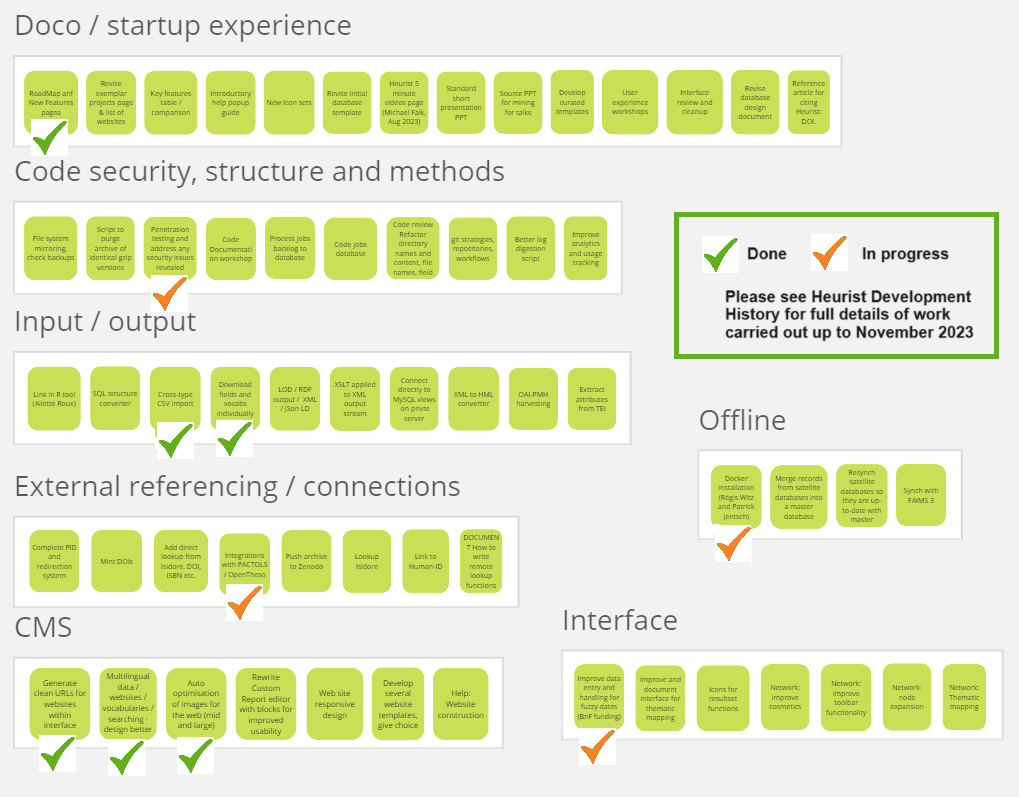
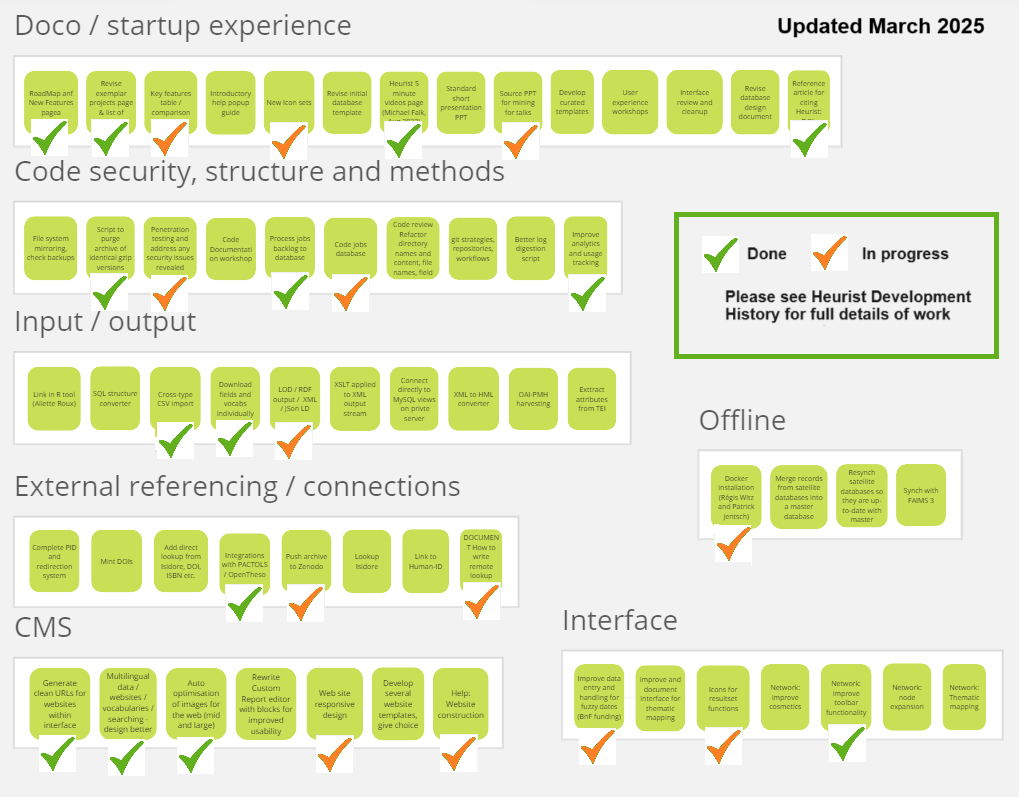
Update roadmap, development history and other documentation

diff --git a/Heurist_Development_History.html b/Heurist_Development_History.html
@@ -48,8 +48,35 @@
         </ul>  
         
       -->
+
+        <p><strong>March 2025</strong></p>
+        <ul>
+        <li style="list-style-type:disc">Development of widget templates to support third party extension of Heurist</li>
+        <li style="list-style-type:disc">Improve browse templates dialogue</li>
+        <li style="list-style-type:disc">Generate list of intended emails in bulk mailer and display progress</li>
+        <li style="list-style-type:disc">Dropdown lists for terms with bolded top level and collapsed branches</li>
+        <li style="list-style-type:disc">Continuing code cleanup and documentation for community workshops in April</li>
+        <li style="list-style-type:disc">Fix recursion problem in creating archive files on some databsaes</li>
+        <li style="list-style-type:disc">Block purging of empty databases until at least 6 months old</li>
+        <li style="list-style-type:disc">Additional fields output in GEFX for edges</li>
+        <li style="list-style-type:disc">Reorder favourites in entity list to correspond with groups and alphabetisation</li>
+        <li style="list-style-type:disc">Develop monthly poll of all registered servers to create global usage stats</li>
+        <li style="list-style-type:disc">Enhance job trackign system with progress mailouts</li>
+        <li style="list-style-type:disc">Installation and intial testing for Vsn 7</li>
+        <li style="list-style-type:disc">CORS re-enabled for IIIF connections</li>
+        </ul>  
       
-      
+        
+        <p><strong>February 2025</strong></p>
+        <ul>
+        <li style="list-style-type:disc">Numereous minor code cleanup activities</li>
+        <li style="list-style-type:disc">Various fixes for Nakala access</li>
+        <li style="list-style-type:disc">Improve auto refreshing of database definitions from server</li>
+        <li style="list-style-type:disc">Added new fields and new workstage change mailout capabilites</li>
+        </ul>  
+        
+
+ 
 
         <p><strong>January 2025</strong></p>
         <ul>

diff --git a/Heurist_RoadMap.html b/Heurist_RoadMap.html
@@ -19,10 +19,11 @@
 <h1>Heurist RoadMap</h1>
 This page describes planned new features and development priorities for the Heurist software ( <a href="https://HeuristNetwork.org" target="_blank" rel="noopener">HeuristNetwork.org</a> ).
 
-<p>This diagram represents the main priorities for 2024 (some have already been done as of Nov 2023, as indicated). 
-For each section it implies likely development order from left to right, 
-but the order may change as users/projects request or dictate. 
-This does not cover routine maintenance, small interface improvements and bug fixing.</p>
+<p>This diagram represents the main priorities set following the workshop at Beaumes de Venise in April 2023. <br>
+Unfortunately progress has been delayed due to administrative issues and significant work on improvements to<br>
+security and maintainability in preparation for transition to a community organisation in 2025 or 2026.<br>
+For each section likely development order runs from left to right, but the order may change as users/projects <br>
+request or dictate. This does not cover routine maintenance, small interface improvements and bug fixing.</p>
 
 <img src="https://heuristref.net/heurist/Heurist_RoadMap_Overview.png" alt="RoadMap">
 
